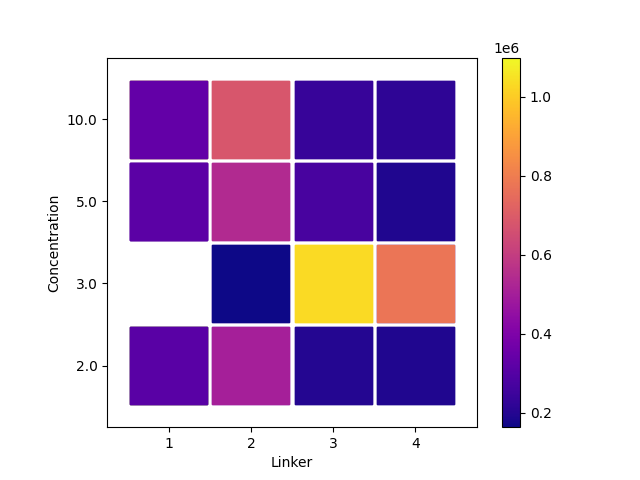
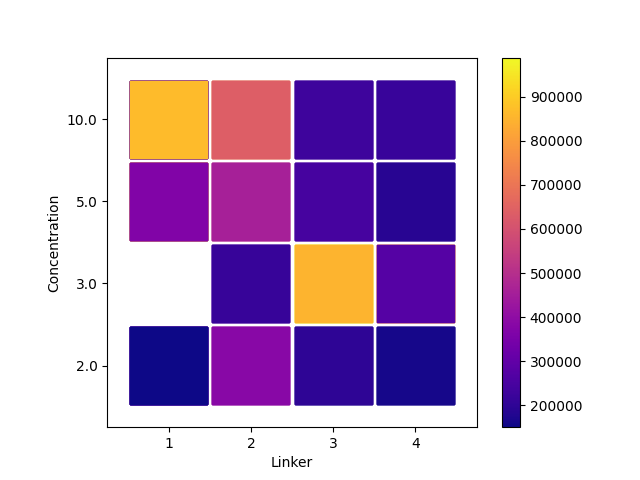
Small Updates To check vals

diff --git a/Utility/segmentation_utils_20230621.py b/Utility/segmentation_utils_20230621.py
@@ -181,8 +181,8 @@ class ImageSegmenter():
         kernel = self.kernel
 
         self._generate_threshold()
-        self.thresh = cv2.morphologyEx(self.thresh, cv2.MORPH_OPEN, kernel,iterations = 2)
-        self.thresh = cv2.morphologyEx(self.thresh, cv2.MORPH_CLOSE, kernel,iterations = 10)
+        self.thresh = cv2.morphologyEx(self.thresh, cv2.MORPH_OPEN, kernel,iterations = 1)
+        self.thresh = cv2.morphologyEx(self.thresh, cv2.MORPH_CLOSE, kernel,iterations = 3)
         #what is definitely your background?
         self._bg_mark = cv2.dilate(self.thresh,kernel)
 
@@ -381,7 +381,7 @@ class ImageSegmenter():
             # broaden edges for visibility, store for figure reference
             bright_broad = cv2.GaussianBlur(bright_edges,(3,3),cv2.BORDER_DEFAULT)
             dark_broad  = cv2.GaussianBlur(dark_edges,(3,3),cv2.BORDER_DEFAULT)
-            color_img = cv2.cvtColor(self.img2,cv2.COLOR_GRAY2RGB)
+            color_img = cv2.cvtColor(rangself.img2,cv2.COLOR_GRAY2RGB)
             color_img[bright_broad > 0] = (0,0,255)
             color_img[dark_broad > 0] = (0,255,0)
             #color_img[(bright_broad > 0) & (dark_broad>0)] = (255,0,0)
@@ -394,7 +394,7 @@ class ImageSegmenter():
 
         elif edge_modification == "darkbright": # Note: Probably add this as separate utility
             # Get Canny Edge
-            canny_args = [(9,9),40,50,80,80,False]
+            canny_args = [(5,5),30,50,80,80,False]
             canny_edge = self.canny_edge(*canny_args)
 
             # Define sharpen kernel
@@ -418,8 +418,7 @@ class ImageSegmenter():
             #img_edges = cv2.filter2D(self.img2,-1,sharpen_kernel)
             #canny_edge = cv2.Canny(img_edges,50,100)
             img_edges = cv2.filter2D(self.img2,-1,avg_kernel)
-            img_edges = cv2.GaussianBlur(self.img2, (5,5),0)
-            img_edges = kernel_range(img_edges,5).astype(np.uint8)
+            img_edges = kernel_minima(img_edges,5).astype(np.uint8)
 
             img_edges[canny_edge == 0] = 0
 
@@ -432,7 +431,7 @@ class ImageSegmenter():
             median = np.median(img_edges[img_edges != 0])
             mean = np.mean(img_edges[img_edges != 0])
             self._edge_stats = f"(MED.,MODE,MEAN),({median},{mode},{mean})"
-            cut_off = np.mean([median,mean,mode])*1.2 #bin_edges[np.argmax(histogram)]
+            cut_off = median#np.min([median,mean,mode])*1 #bin_edges[np.argmax(histogram)]
 
             # Define bright edges
             bright_edges = copy.deepcopy(img_edges)

diff --git a/Utility/process_data_utils.py b/Utility/process_data_utils.py
@@ -248,7 +248,7 @@ def create_formatted_df():
     Easiest Load-in technique: look for 'L-'
     Can use this to more easily query the data
     '''
-    path_total = glob.glob("../Results/*") 
+    path_total = glob.glob("../Results/*.csv") 
     path_list = [p for p in path_total if "L-" in p and "Images" not in p]
     print(path_list)
     df_arr = []
@@ -303,20 +303,23 @@ if __name__ == "__main__":
     #    (df_master.concentration == 2.5) &
         (~df_master.mixing) &
         (~df_master.oven) &
-        (df_master.edge == "darkbright")
+        (df_master.edge == "None") &
+        (df_master.thresh == "otsu")
         ]
     exp_list = np.unique(sub_df.file)
     fig = plot_feature_with_experiments_gaussian('area',exp_list)
-    fig = plot_feature_with_experiments_schultz_zimm('area',exp_list)
+    #fig = plot_feature_with_experiments_schultz_zimm('area',exp_list)
     plt.savefig("Test.png")
 
     # Try and make RC's 2-D plot
     df_master = df_master.apply(row_fit_gaussian,axis=1)
+    sub_df = sub_df.apply(row_fit_gaussian,axis=1)
     
     print(df_master.keys())
     
     df_master = df_master.sort_values(by=["concentration","linker"])
-    print(df_master[['linker','concentration',"A","mu","sig","r2"]])
+    
+    print(sub_df[['linker','concentration',"A","mu","sig","r2"]])
     fig,ax = plt.subplots()
     im = ax.scatter(
             [str(l) for l in df_master.linker],

diff --git a/Scripts/run_data.py b/Scripts/run_data.py
@@ -9,6 +9,9 @@ from Utility import run_data_utils as rdu
 
 image_folder = "../Images"
 input_folder = "Diagnostic_Images"
+#input_folder =  "Organized images 20230613"
+#input_folder = "Organized_Images"
+file_id = "Testing"
 experiment_list = glob.glob(image_folder+f"/{input_folder}/*")
 
 for th_mode, edge_mode in [
@@ -22,4 +25,5 @@ for th_mode, edge_mode in [
 ]:
     for experiment in tqdm.tqdm(experiment_list):
         #rdu.run_experiment_folder(experiment,threshold_mode=th_mode,edge_modification=edge_mode)
-        rdu.run_experiment_folder_tile(experiment,results_folder=f"../Results/{input_folder}_Results",threshold_mode=th_mode,edge_modification=edge_mode)
+        #rdu.run_experiment_folder_tile(experiment,results_folder=f"../Results/{input_folder}_Results_20230620",threshold_mode=th_mode,edge_modification=edge_mode)
+        rdu.run_experiment_folder_tile(experiment,results_folder=f"../Results/{input_folder}_{file_id}",threshold_mode=th_mode,edge_modification=edge_mode)
